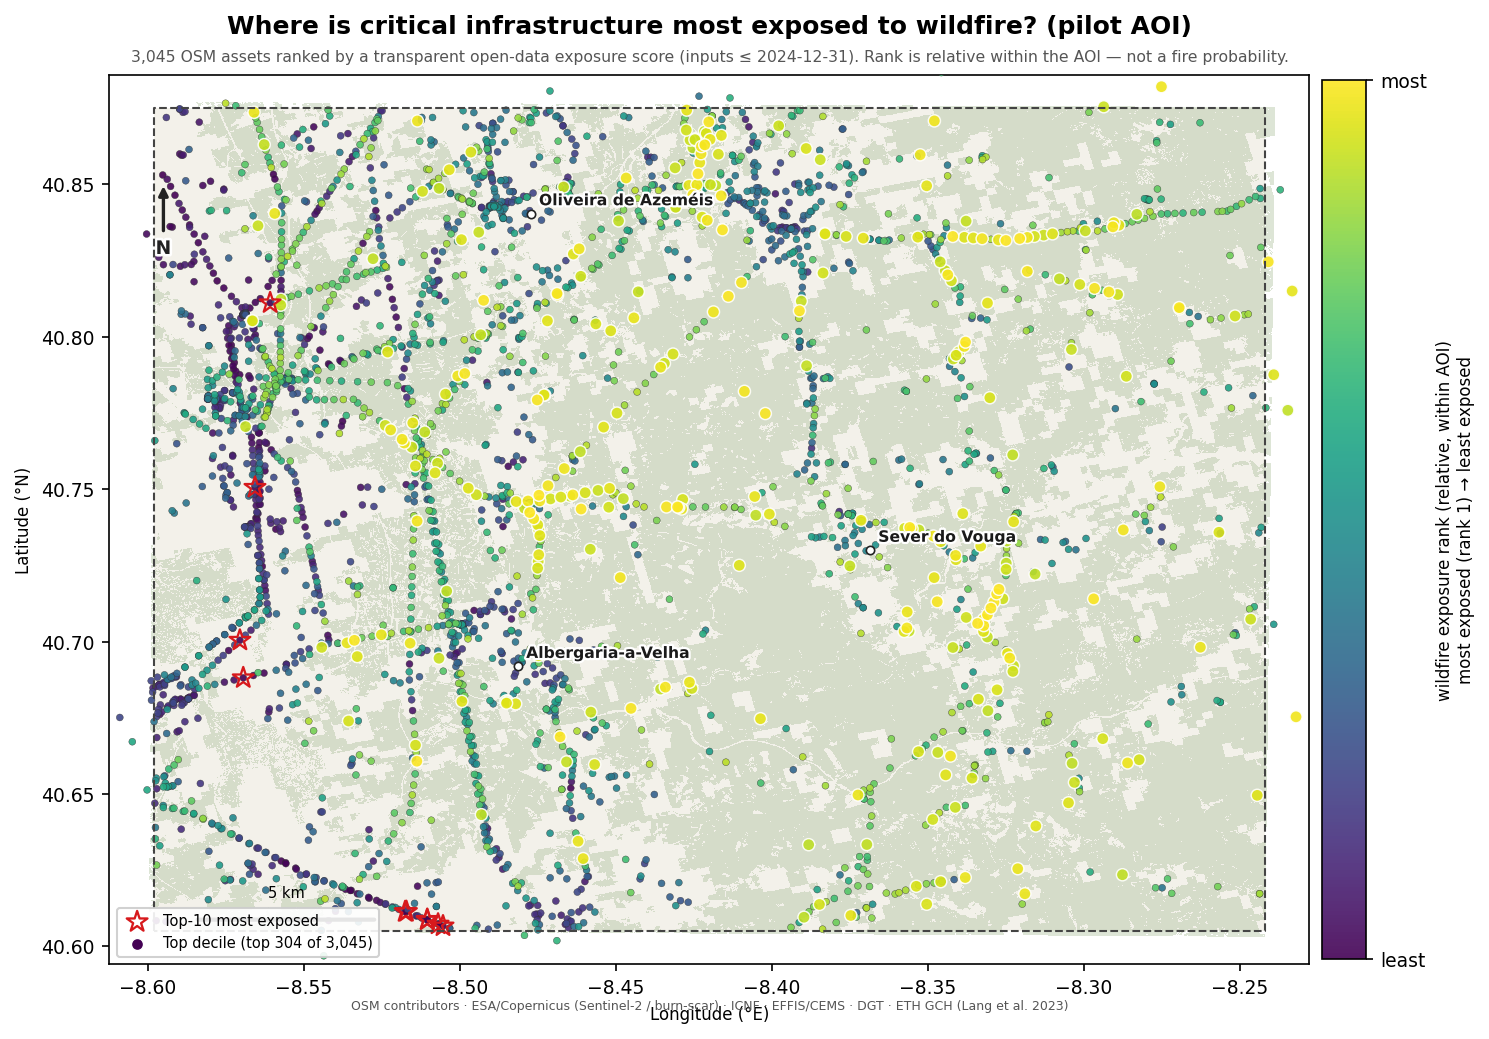
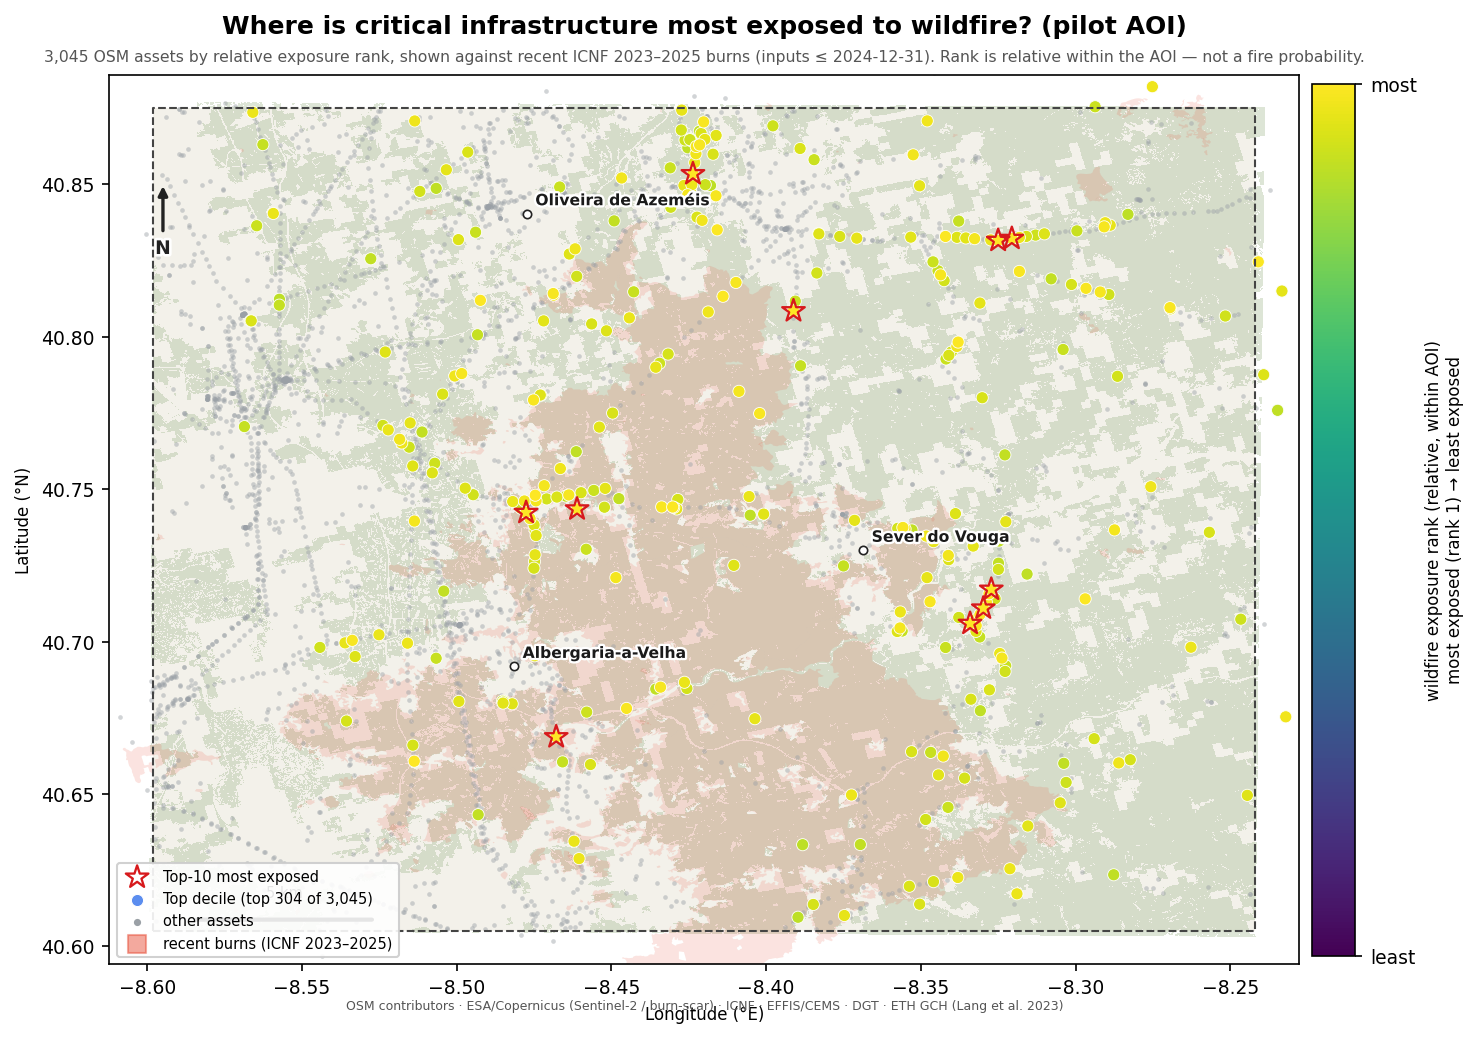
docs(fig1): variant C — most-exposed decile over recent-burns context
Headline map redesigned (chosen variant C): the other ~90% of assets become a
muted grey context and only the most-exposed decile carries the viridis rank, so
it reads instantly; recent ICNF 2023-2025 burns are shaded underneath so the
exposed infrastructure sits visibly against real fire history. make_fig1 now
accepts `burns`; top-10 starred; legend + subtitle updated to name the burn
context. No new deps; seed 42; CRS explicit; rank-not-probability preserved.

diff --git a/scripts/12_make_figures.py b/scripts/12_make_figures.py
@@ -469,6 +469,7 @@ def make_fig1(
     aoi_label: str,
     t0: str,
     fuel_path: Path | None = None,
+    burns: gpd.GeoDataFrame | None = None,
 ) -> None:
     """Headline map: critical-infrastructure assets coloured by exposure rank.
 
@@ -483,33 +484,40 @@ def make_fig1(
     # Soft geographic backdrop from existing repo data (AOI fill + fuel wash).
     _draw_context_base(ax, aoi, fuel_path)
 
-    # Sort by rank descending so high-rank (most exposed) plots on top.
-    gdf_sorted = gdf.sort_values("exposure_rank", ascending=False)
-    n = len(gdf_sorted)
-    decile_cut = max(1, n // 10)
+    # Recent-burn context: shade where it actually burned (ICNF truth years) so
+    # the exposed assets read against real fire history.
+    if burns is not None and not burns.empty:
+        recent = burns[burns["vintage_year"].isin(_TRUTH_YEARS)].to_crs("EPSG:4326")
+        if not recent.empty:
+            recent.plot(ax=ax, facecolor="#e8553f", edgecolor="none", alpha=0.16, zorder=1)
 
-    # Use centroids for all geometry types (lines/polygons → centroid).
-    # Geographic-CRS centroid warning is harmless for point-plot purposes.
+    # Declutter (variant C): the other ~90% of assets are a muted grey context;
+    # only the most-exposed decile carries the viridis rank, so it reads instantly
+    # against the recent-burn backdrop. Top-10 starred to anchor the eye.
+    n = len(gdf)
+    decile_cut = max(1, n // 10)
+    is_top = gdf["exposure_rank"] <= decile_cut
+    rest = gdf.loc[~is_top]
+    top = gdf.loc[is_top].sort_values("exposure_rank", ascending=False)
+
     with warnings.catch_warnings():
         warnings.simplefilter("ignore", UserWarning)
-        cx = gdf_sorted.geometry.centroid.x.to_numpy()
-        cy = gdf_sorted.geometry.centroid.y.to_numpy()
+        rx = rest.geometry.centroid.x.to_numpy()
+        ry = rest.geometry.centroid.y.to_numpy()
+        tx = top.geometry.centroid.x.to_numpy()
+        ty = top.geometry.centroid.y.to_numpy()
 
-    # Top decile drawn larger with a white halo so it pops off the basemap.
-    is_top = (gdf_sorted["exposure_rank"] <= decile_cut).to_numpy()
-    sizes: list[float] = [34.0 if t else 11.0 for t in is_top]
-    edges: list[str] = ["white" if t else "#33333355" for t in is_top]
-    lws: list[float] = [0.7 if t else 0.2 for t in is_top]
-
+    ax.scatter(rx, ry, c="#9aa0a6", s=5, alpha=0.45, linewidths=0, zorder=2)
     sc = ax.scatter(
-        cx,
-        cy,
-        c=gdf_sorted["rank_norm"],
+        tx,
+        ty,
+        c=top["rank_norm"],
         cmap="viridis",
-        s=sizes,
-        linewidths=lws,
-        edgecolors=edges,
-        alpha=0.9,
+        vmin=0.0,
+        vmax=1.0,
+        s=34,
+        linewidths=0.4,
+        edgecolors="white",
         zorder=3,
     )
     cbar = fig.colorbar(sc, ax=ax, fraction=0.035, pad=0.01)
@@ -520,8 +528,7 @@ def make_fig1(
     cbar.set_ticks([0.0, 1.0])
     cbar.set_ticklabels(["least", "most"])
 
-    # Star the top-10 to anchor the eye, then describe the decile in the legend.
-    top10 = gdf_sorted.head(10)
+    top10 = gdf.sort_values("exposure_rank").head(10)
     with warnings.catch_warnings():
         warnings.simplefilter("ignore", UserWarning)
         _tx = top10.geometry.centroid.x
@@ -531,7 +538,7 @@ def make_fig1(
         _ty,
         facecolors="none",
         edgecolors="#d7191c",
-        s=110,
+        s=130,
         marker="*",
         linewidths=1.1,
         zorder=4,
@@ -541,11 +548,26 @@ def make_fig1(
         [],
         [],
         s=34,
-        c="#440154",
+        c="#5b8def",
         edgecolors="white",
-        linewidths=0.7,
+        linewidths=0.5,
         label=f"Top decile (top {decile_cut} of {n:,})",
     )
+    ax.scatter([], [], s=6, c="#9aa0a6", label="other assets")
+    if (
+        burns is not None
+        and not burns.empty
+        and not burns[burns["vintage_year"].isin(_TRUTH_YEARS)].empty
+    ):
+        ax.scatter(
+            [],
+            [],
+            marker="s",
+            s=80,
+            c="#e8553f",
+            alpha=0.5,
+            label=f"recent burns (ICNF {_TRUTH_YEARS[0]}–{_TRUTH_YEARS[-1]})",
+        )
     leg = ax.legend(loc="lower left", fontsize=7, framealpha=0.9)
     leg.set_zorder(7)
 
@@ -574,8 +596,9 @@ def make_fig1(
     ax.text(
         0.5,
         1.012,
-        f"{len(gdf):,} OSM assets ranked by a transparent open-data exposure score "
-        f"(inputs ≤ {t0}). Rank is relative within the AOI — not a fire probability.",
+        f"{len(gdf):,} OSM assets by relative exposure rank, shown against recent ICNF "
+        f"{_TRUTH_YEARS[0]}–{_TRUTH_YEARS[-1]} burns (inputs ≤ {t0}). "
+        f"Rank is relative within the AOI — not a fire probability.",
         ha="center",
         va="bottom",
         transform=ax.transAxes,
@@ -1307,6 +1330,7 @@ def main() -> None:
         aoi_label=aoi_label,
         t0=t0,
         fuel_path=fuel_path,
+        burns=burns,
     )
     make_fig2(fuel_path, crosswalk, _FIGS_DIR / f"fig2_fuel_layer{suffix}.png", aoi=aoi)
     reducer_label = str(burn_sidecar.get("reducer", "de-grid p85"))